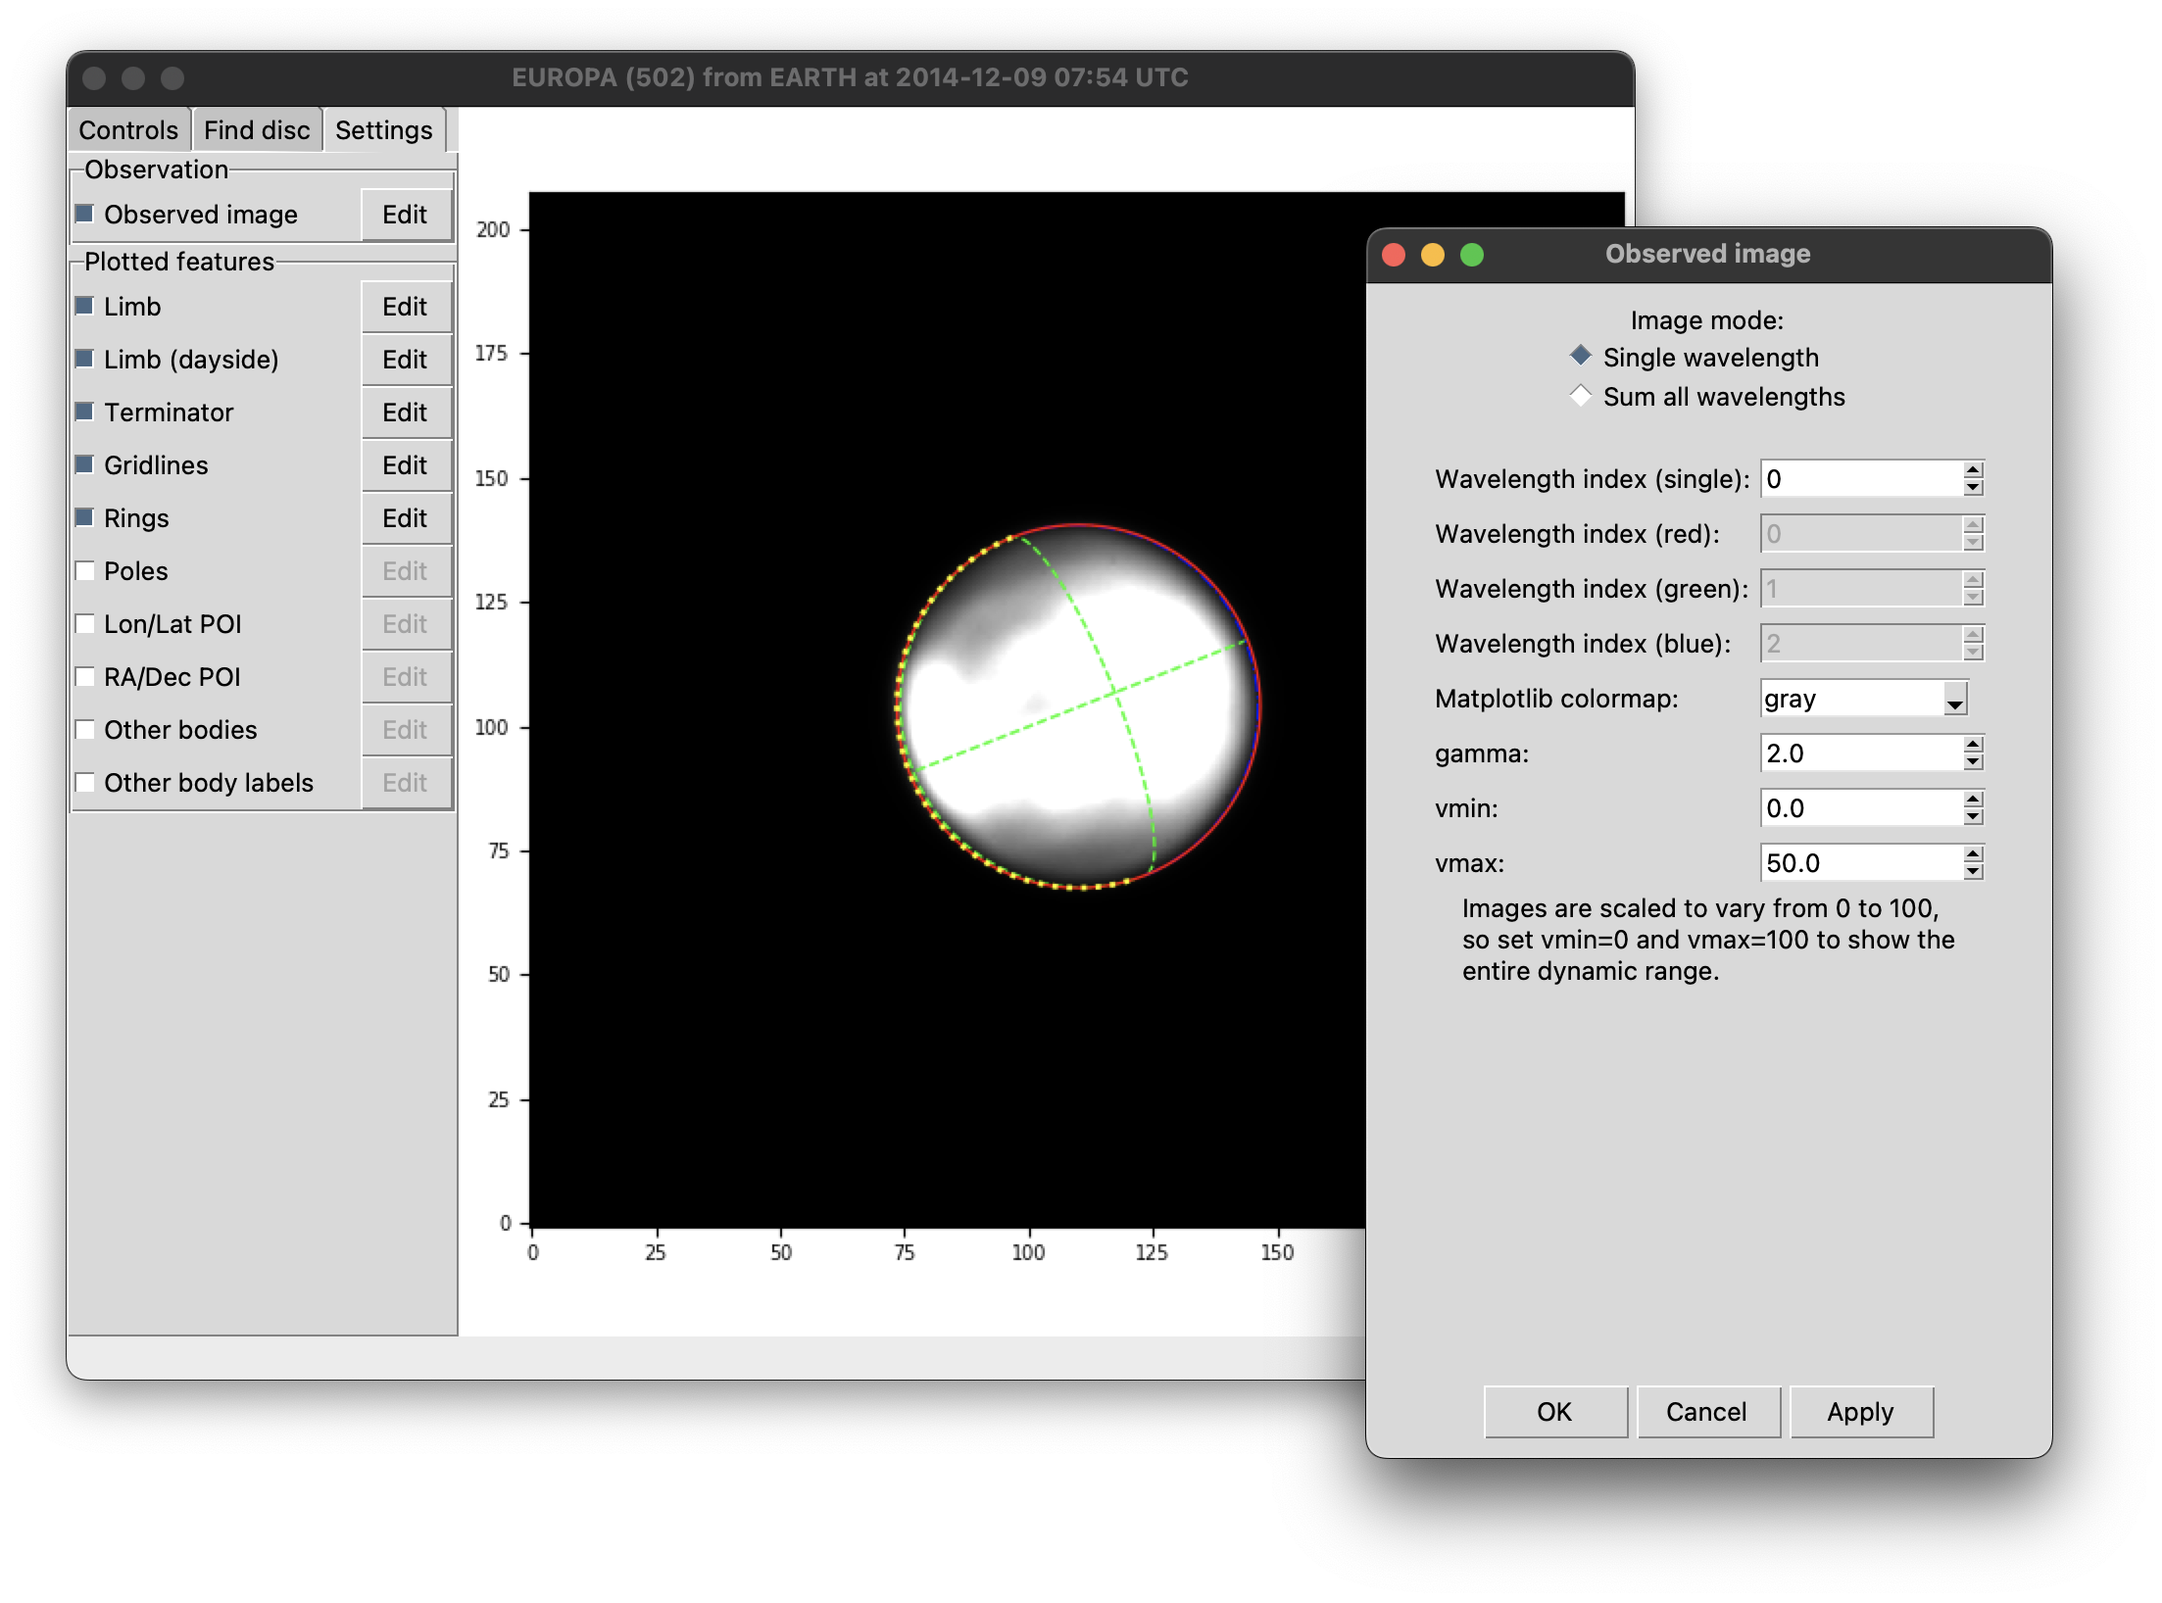
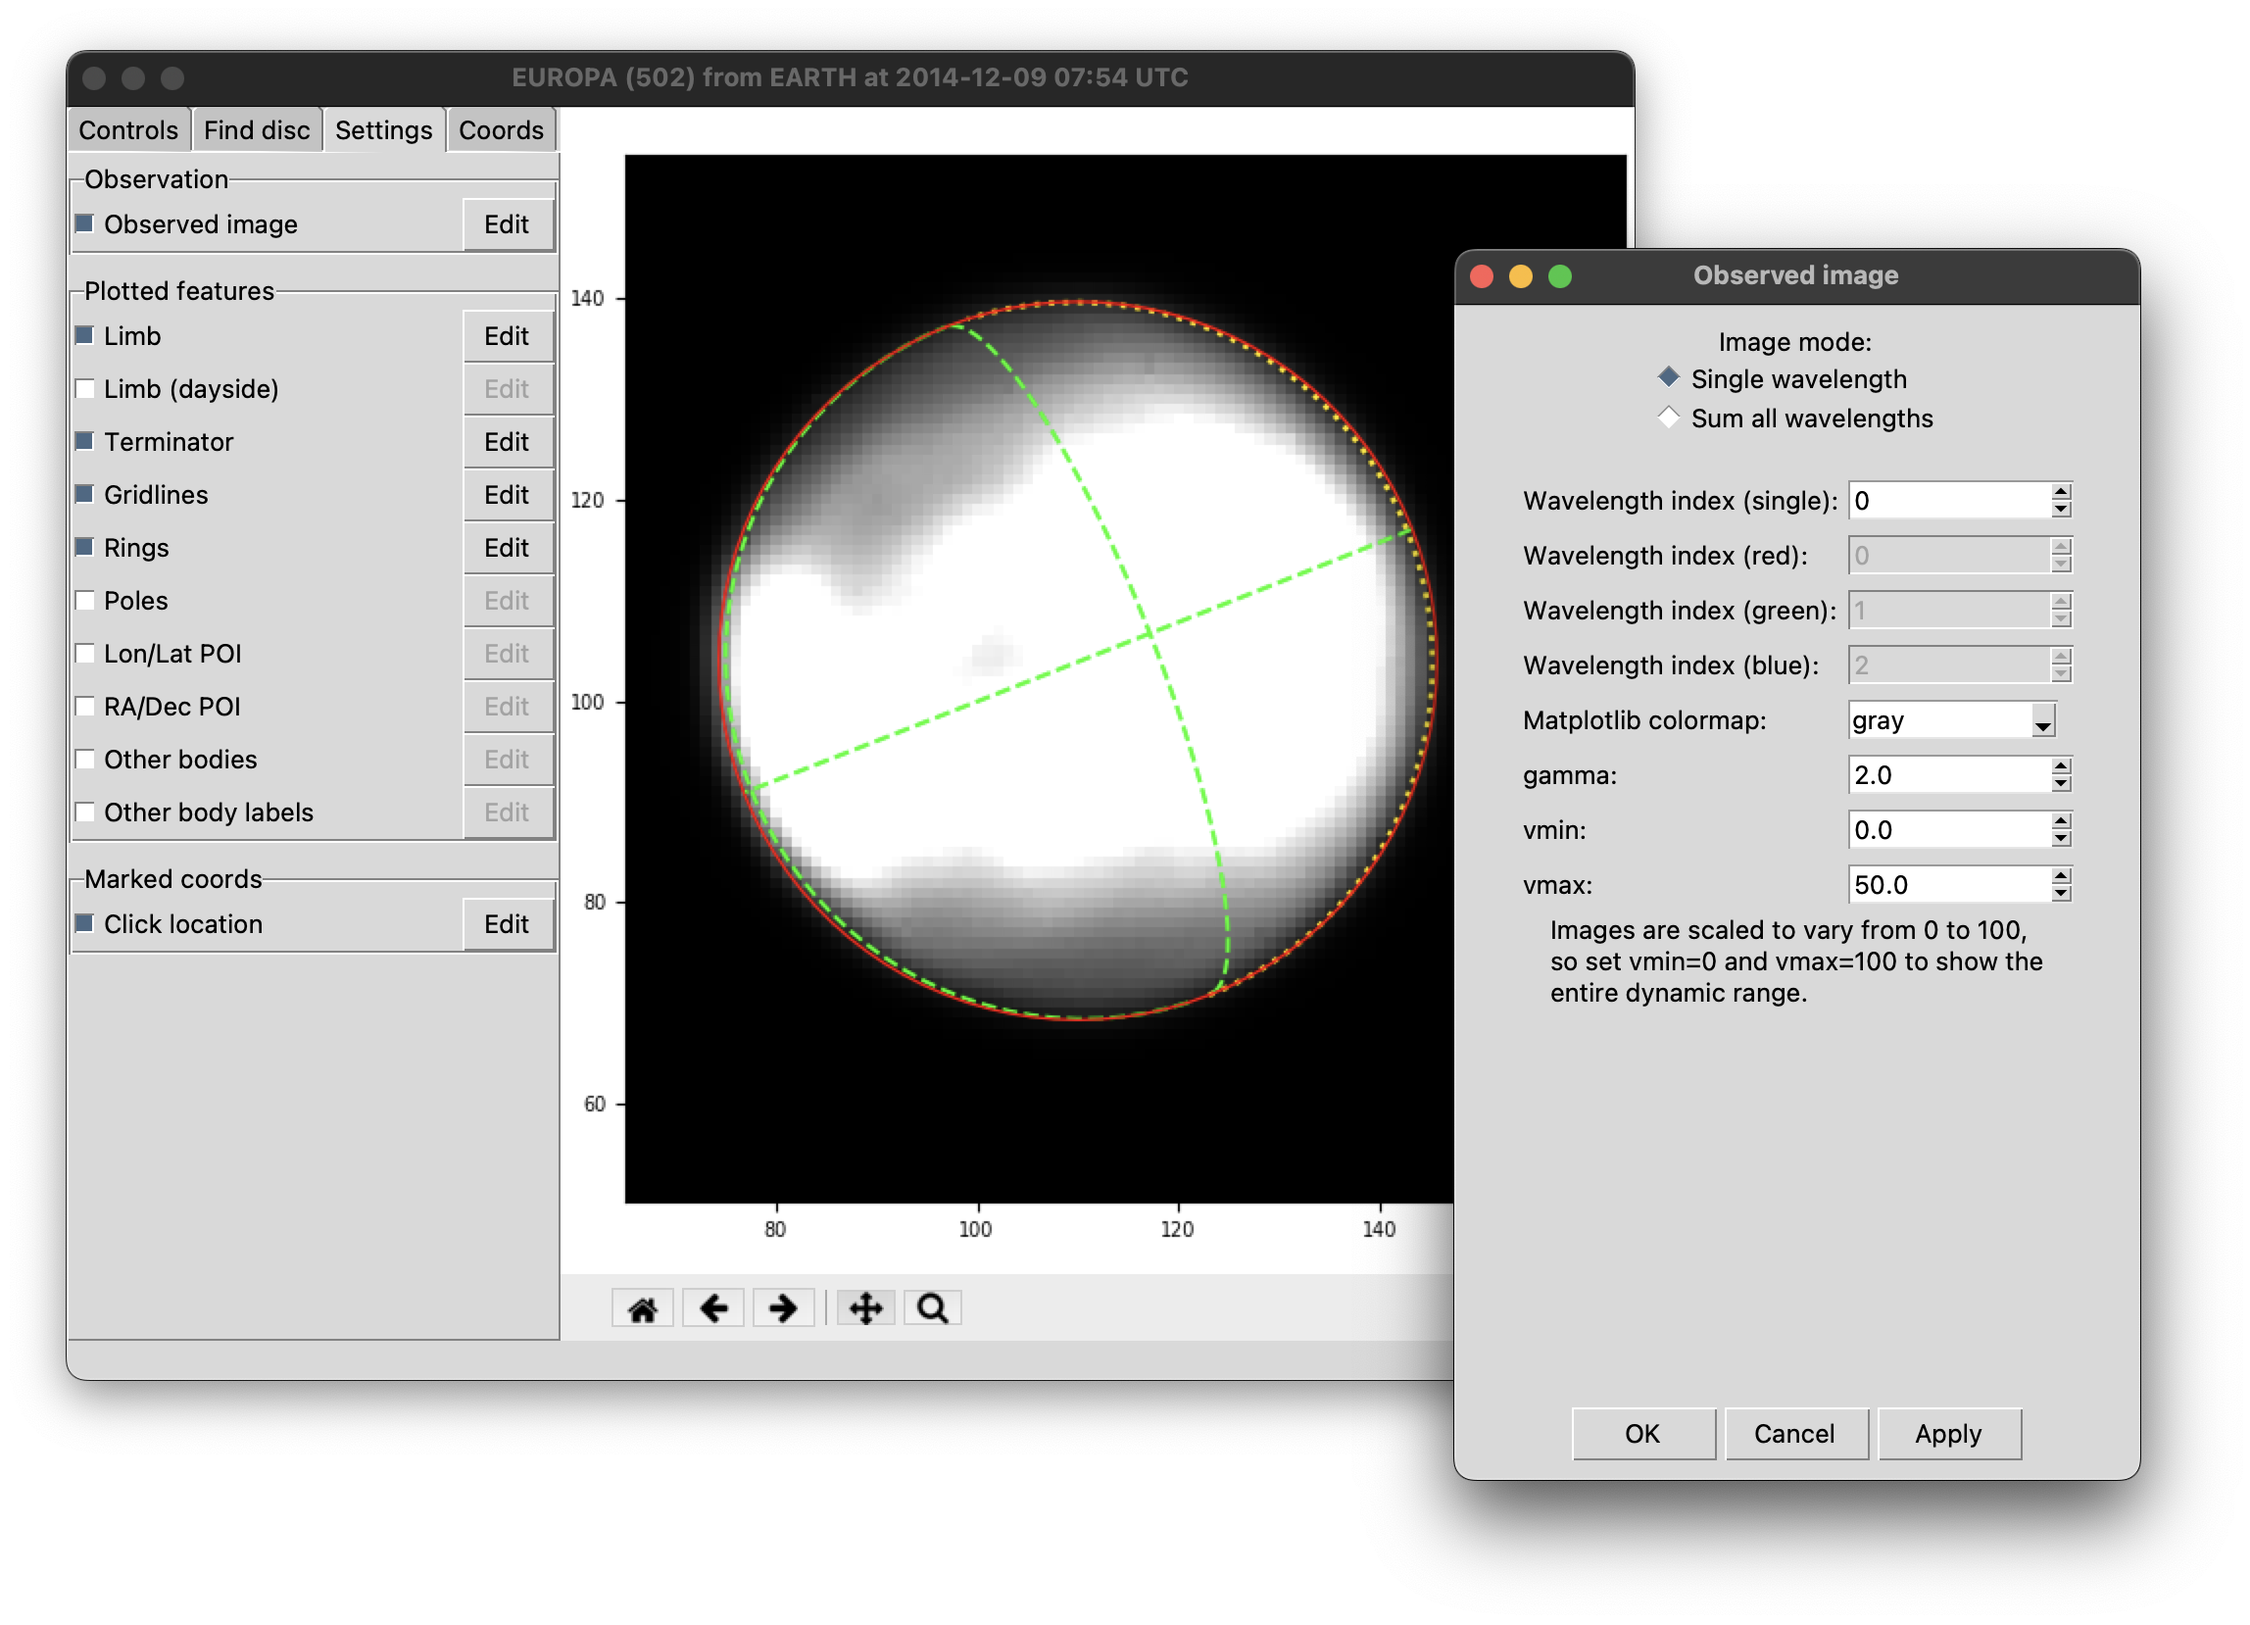
Updating docs for coord selection and new screenshots

Changed region(s): [[0.0308, 0.0312, 0.9556, 0.9352], [0.709, 0.8729, 0.8939, 0.904]]

diff --git a/scratchpad.py b/scratchpad.py
@@ -28,5 +28,5 @@ import numpy as np
 
 gui = planetmapper.gui.GUI()
 
-gui.set_observation(planetmapper.Observation('data/europa_nav.fits'))
+# gui.set_observation(planetmapper.Observation('data/europa_nav.fits'))
 gui.run()

diff --git a/docs/user_interface.rst b/docs/user_interface.rst
@@ -14,7 +14,7 @@ You can create a user interface from a :class:`planetmapper.Observation` object 
 It is also possible to start a user interface directly using :func:`planetmapper.gui.GUI.run`, although the other two methods are generally more useful.
 
 
-Example: fitting an observation
+Fitting an observation
 ===============================
 To start, type `planetmapper` into a command line and press enter. This will open a window where you can choose a file to open:
  
@@ -45,7 +45,7 @@ Once the disc is fit, it should look something like the image above. If you want
     :width: 600
     :alt: Screenshot of the customisation options.
 
-You can also fully customise the appearance of the plot on the right to make fitting easier (or if you just fancy a more exciting colour scheme). In the settings tab, you can toggle the visibility of different plotted elements, and you can click on Edit to customise them further. It can be particularly useful to customise the colour scale and brightness of the observed image to increase the contrast around the limb.
+You can fully customise the appearance of the plot on the right to make fitting easier (or if you just fancy a more exciting colour scheme). In the settings tab, you can toggle the visibility of different plotted elements, and you can click on Edit to customise them further. It can be particularly useful to customise the colour scale and brightness of the observed image to increase the contrast around the limb. The zoom and pan buttons beneath the plot can be used to move around the image - click the home button to reset to the default view
 
 You can also use the settings tab to mark points of interest to help with fitting. For example:
 
@@ -64,7 +64,14 @@ Once you are happy with the fitting result, click Save at the top of the Control
 
 Once you click Save, your requested files will be generated and saved. Note that for larger files, this can take around a minute to complete as some of the coordinate conversion calculations are relatively complex.
 
-Example: running the UI from Python
+.. image:: images/gui_coords_selection.png
+    :width: 600
+    :alt: Screenshot of selecting coordinates.
+
+You can also use the user interace to directly measure the coordinates of points of interest. Simply click on a location in the plot and the coordinate values for that location will be displayed in the 'Coords' tab. The coordinate values will also be printed to the command line in a machine readable format that can easily be copied directly into a Python script, JSON database etc. If clicking on the plot isn't updating the coordinates for you, make sure you don't have the pan or zoom buttons selected.
+    
+
+Running the UI from Python
 ===================================
 This simple example shows how you could use :func:`planetmapper.Observation.run_gui` from a Python script to fit multiple observations, then run some custom code on each of them: ::
 
@@ -78,8 +85,12 @@ This simple example shows how you could use :func:`planetmapper.Observation.run_
         observation.add_other_bodies_of_interest('Io', 'Europa', 'Ganymede', 'Callisto')
         observation.set_plate_scale_arcsec(42)
 
-        # Run the GUI to fit the observation interactively
-        # this will open a GUI window every loop
-        observation.run_gui()
+        # Run the GUI to fit the observation interactively 
+        # This will open a GUI window every loop
+        coords = observation.run_gui()
 
         # More custom code can go here to use the fitted observation...
+        # for example, we can print some values for the last click location 
+        if coords:
+            x, y = coords[-1]
+            print(observation.xy2lonlat(x, y))
